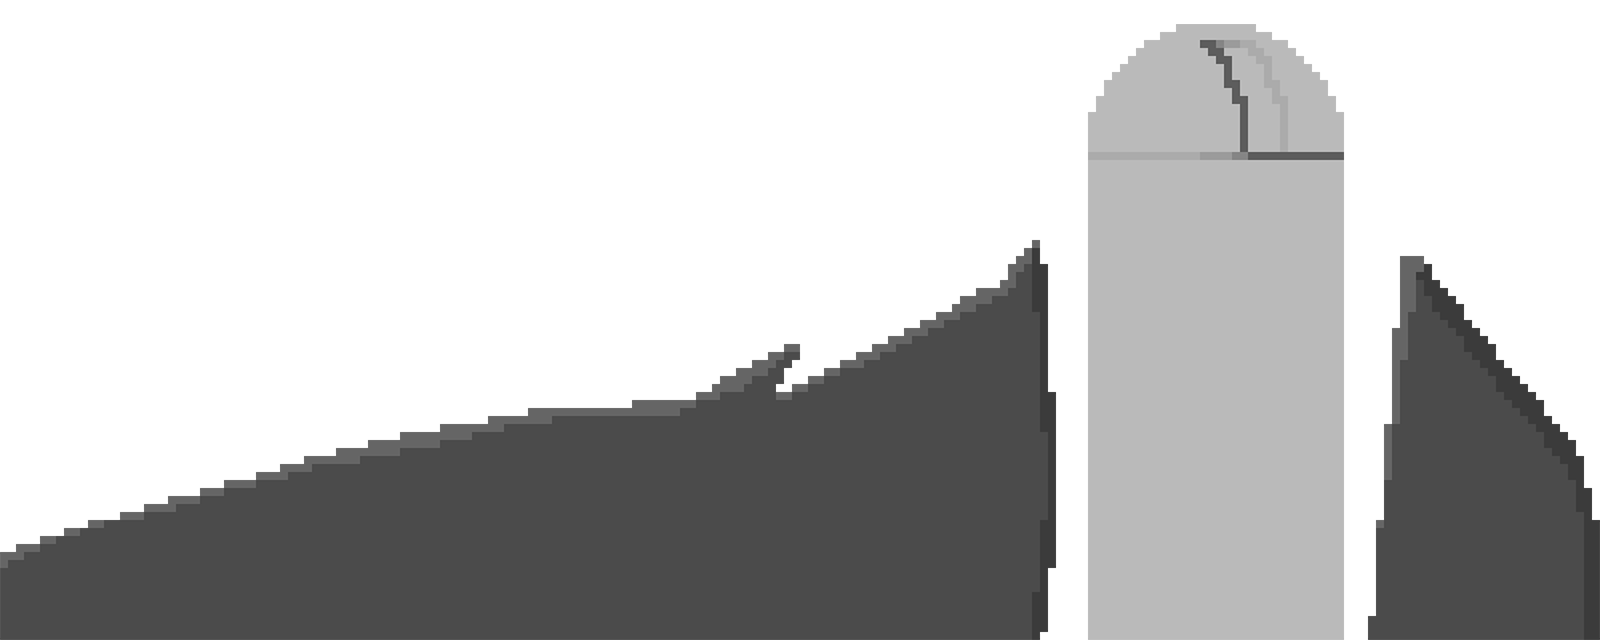
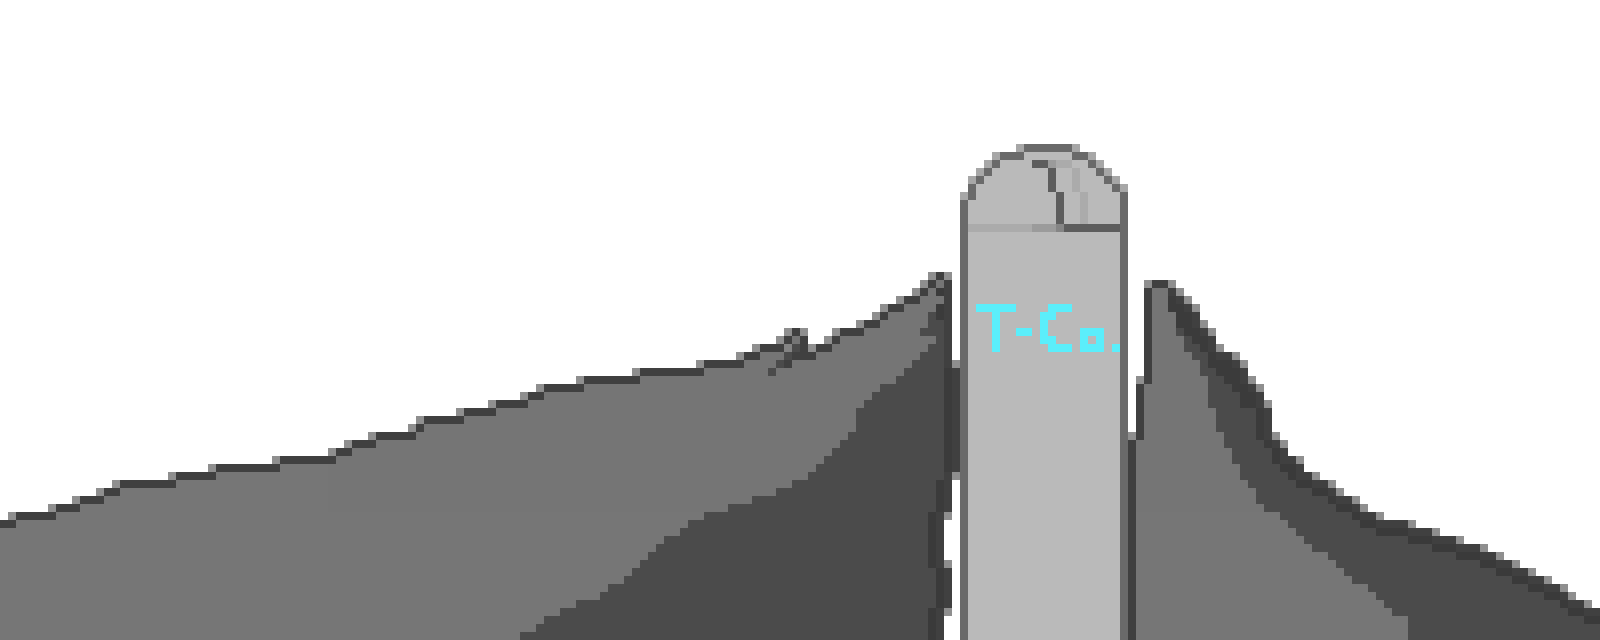
Changed the bg of level 1 and fixed moving platform

diff --git a/LCCV2/main.py b/LCCV2/main.py
@@ -37,11 +37,12 @@ man.init_guns()
 # Setting up the platform
 def level_1():
     platforms = [BasePlatform(0), MovingTile(2000, 400), FloatingPlatform(300, 400),
-                 FloatingPlatform(650, 250),MovingTile(1650, 550),  Boost(2000, 400), 
+                 FloatingPlatform(650, 250),MovingTile(1650, 146),  Boost(2000, 400), 
                  TallPlatform(3200,236), FloatingPlatform(1000, 350),FloatingPlatform(1110, 350)]
-    platforms = [BasePlatform(0), MovingTile(2500, 400), FloatingPlatform(300, 400),
-                 FloatingPlatform(650, 250),MovingTile(1650, 404),  Boost(2500, 400), 
-                 TallPlatform(1850,236), FloatingPlatform(1000, 350),FloatingPlatform(1110, 350)]
+    
+    # Setting movement of moving platform
+    platforms[4].dist_y_max = 404
+    platforms[4].dist_y = 404
 
     # Loading the images for platform
     platforms[0].load_anim(IMAGES_PATH + "Tilesets/level_1/platform_base.png")
@@ -130,7 +131,7 @@ def main():
                 keys = pygame.key.get_pressed()
                 paused(win, keys)
                 PLATFORMS[1].move_x(1)
-                PLATFORMS[4].move_y(1)
+                PLATFORMS[4].move_y(2)
                 for enemy in ENEMIES:
                     enemy.move(3, man)
                     enemy.hurt_player(man)
